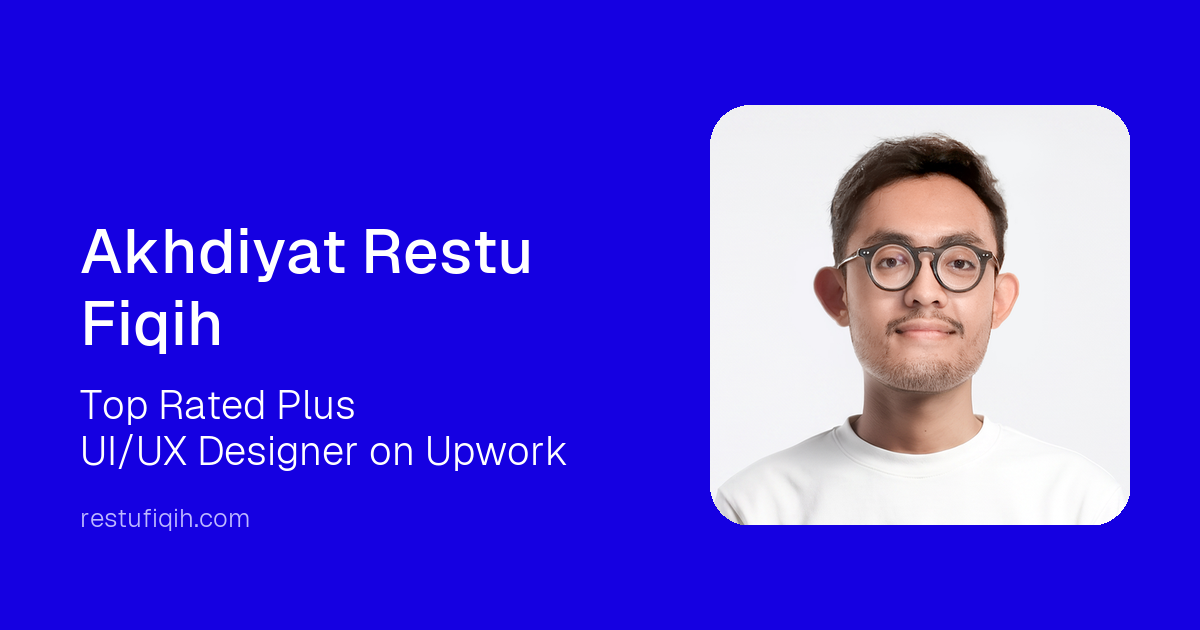
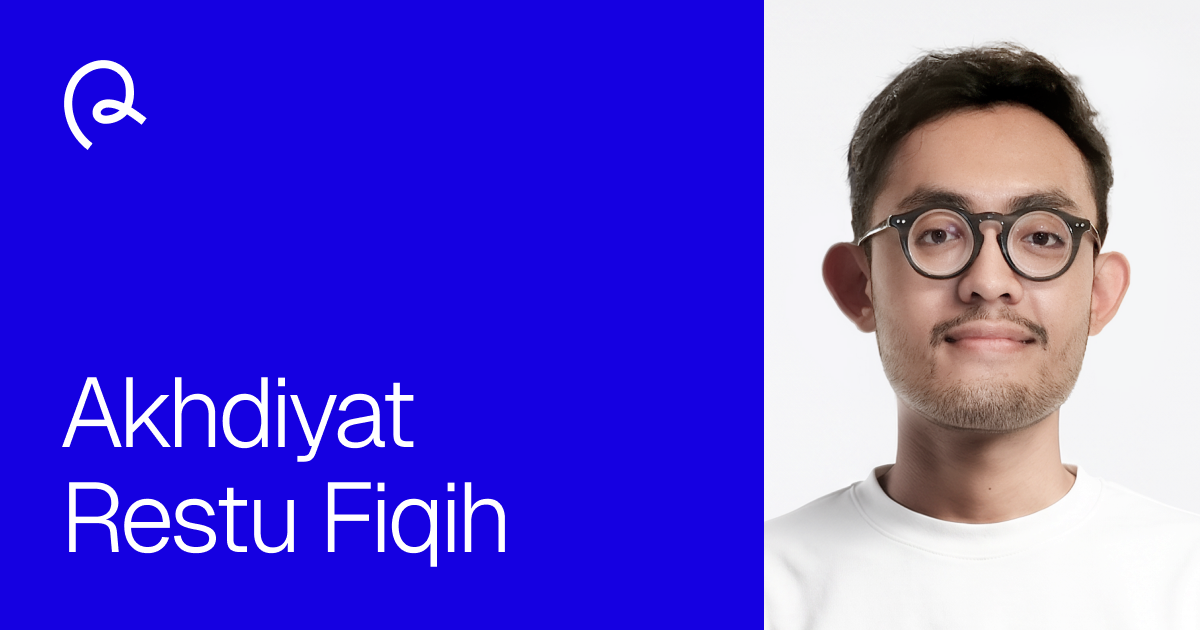
Refresh the share image and switch the title separator to a pipe

diff --git a/index.html b/index.html
@@ -6,7 +6,7 @@
     <meta name="viewport" content="width=device-width, initial-scale=1.0" />
 
     <!-- Primary meta -->
-    <title>Akhdiyat Restu Fiqih — Top Rated Plus UI/UX Designer on Upwork</title>
+    <title>Akhdiyat Restu Fiqih | Top Rated Plus UI/UX Designer on Upwork</title>
     <meta name="description" content="Akhdiyat Restu Fiqih is a Top Rated Plus UI/UX designer on Upwork with 6+ years designing digital products — SaaS, fintech, education, and mobile apps — for global clients." />
     <meta name="author" content="Akhdiyat Restu Fiqih" />
     <meta name="keywords" content="Akhdiyat Restu Fiqih, UI/UX Designer, Product Designer, Upwork Top Rated Plus, UX Designer, design systems, SaaS design, fintech design, mobile app design" />
@@ -17,21 +17,21 @@
     <!-- Open Graph -->
     <meta property="og:type" content="website" />
     <meta property="og:site_name" content="Akhdiyat Restu Fiqih" />
-    <meta property="og:title" content="Akhdiyat Restu Fiqih — Top Rated Plus UI/UX Designer on Upwork" />
+    <meta property="og:title" content="Akhdiyat Restu Fiqih | Top Rated Plus UI/UX Designer on Upwork" />
     <meta property="og:description" content="6+ years designing digital products for global clients — SaaS, fintech, education, and mobile apps. Top Rated Plus on Upwork (top 3% worldwide)." />
     <meta property="og:url" content="https://www.restufiqih.com/" />
     <meta property="og:image" content="https://www.restufiqih.com/og-image.png" />
     <meta property="og:image:width" content="1200" />
     <meta property="og:image:height" content="630" />
-    <meta property="og:image:alt" content="Akhdiyat Restu Fiqih — Top Rated Plus UI/UX Designer on Upwork" />
+    <meta property="og:image:alt" content="Akhdiyat Restu Fiqih | Top Rated Plus UI/UX Designer on Upwork" />
     <meta property="og:locale" content="en_US" />
 
     <!-- Twitter -->
     <meta name="twitter:card" content="summary_large_image" />
-    <meta name="twitter:title" content="Akhdiyat Restu Fiqih — Top Rated Plus UI/UX Designer on Upwork" />
+    <meta name="twitter:title" content="Akhdiyat Restu Fiqih | Top Rated Plus UI/UX Designer on Upwork" />
     <meta name="twitter:description" content="6+ years designing digital products for global clients — SaaS, fintech, education, and mobile apps. Top Rated Plus on Upwork (top 3% worldwide)." />
     <meta name="twitter:image" content="https://www.restufiqih.com/og-image.png" />
-    <meta name="twitter:image:alt" content="Akhdiyat Restu Fiqih — Top Rated Plus UI/UX Designer on Upwork" />
+    <meta name="twitter:image:alt" content="Akhdiyat Restu Fiqih | Top Rated Plus UI/UX Designer on Upwork" />
 
     <!-- Structured data -->
     <script type="application/ld+json">
